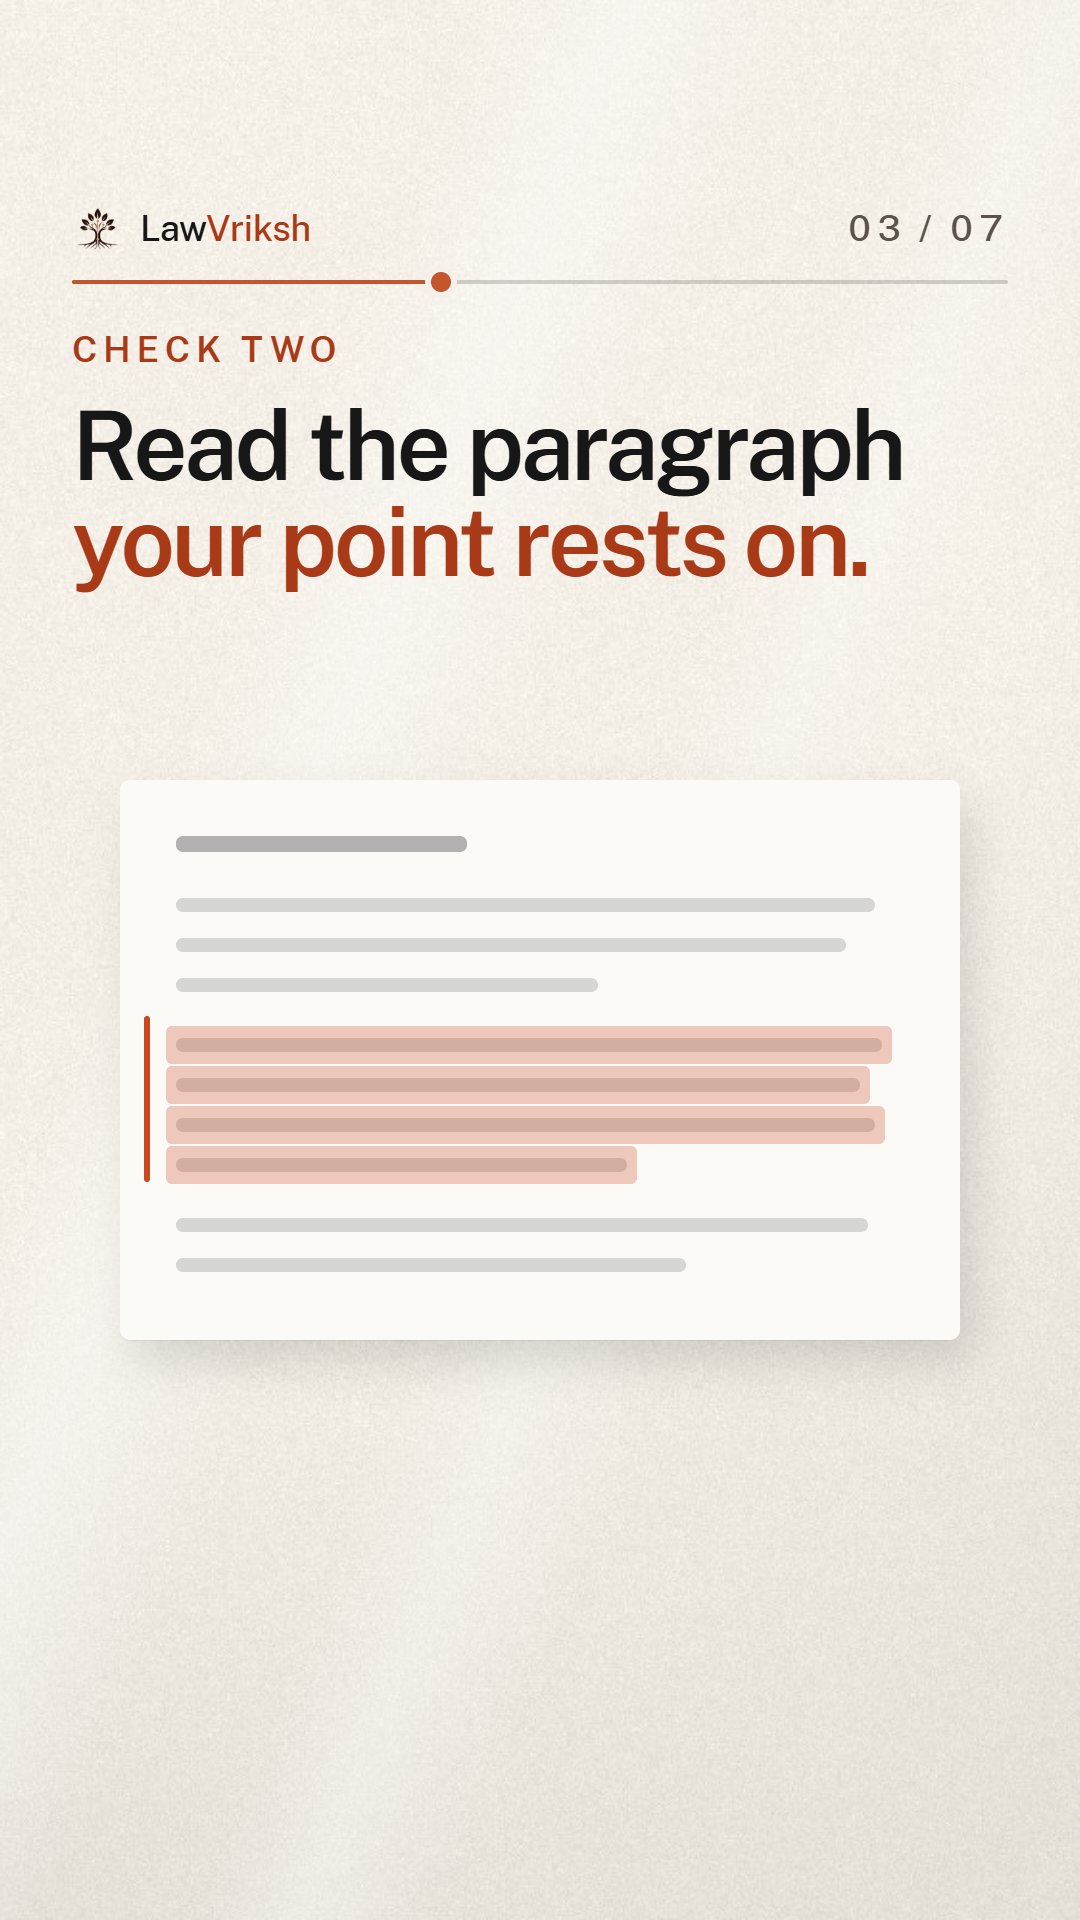
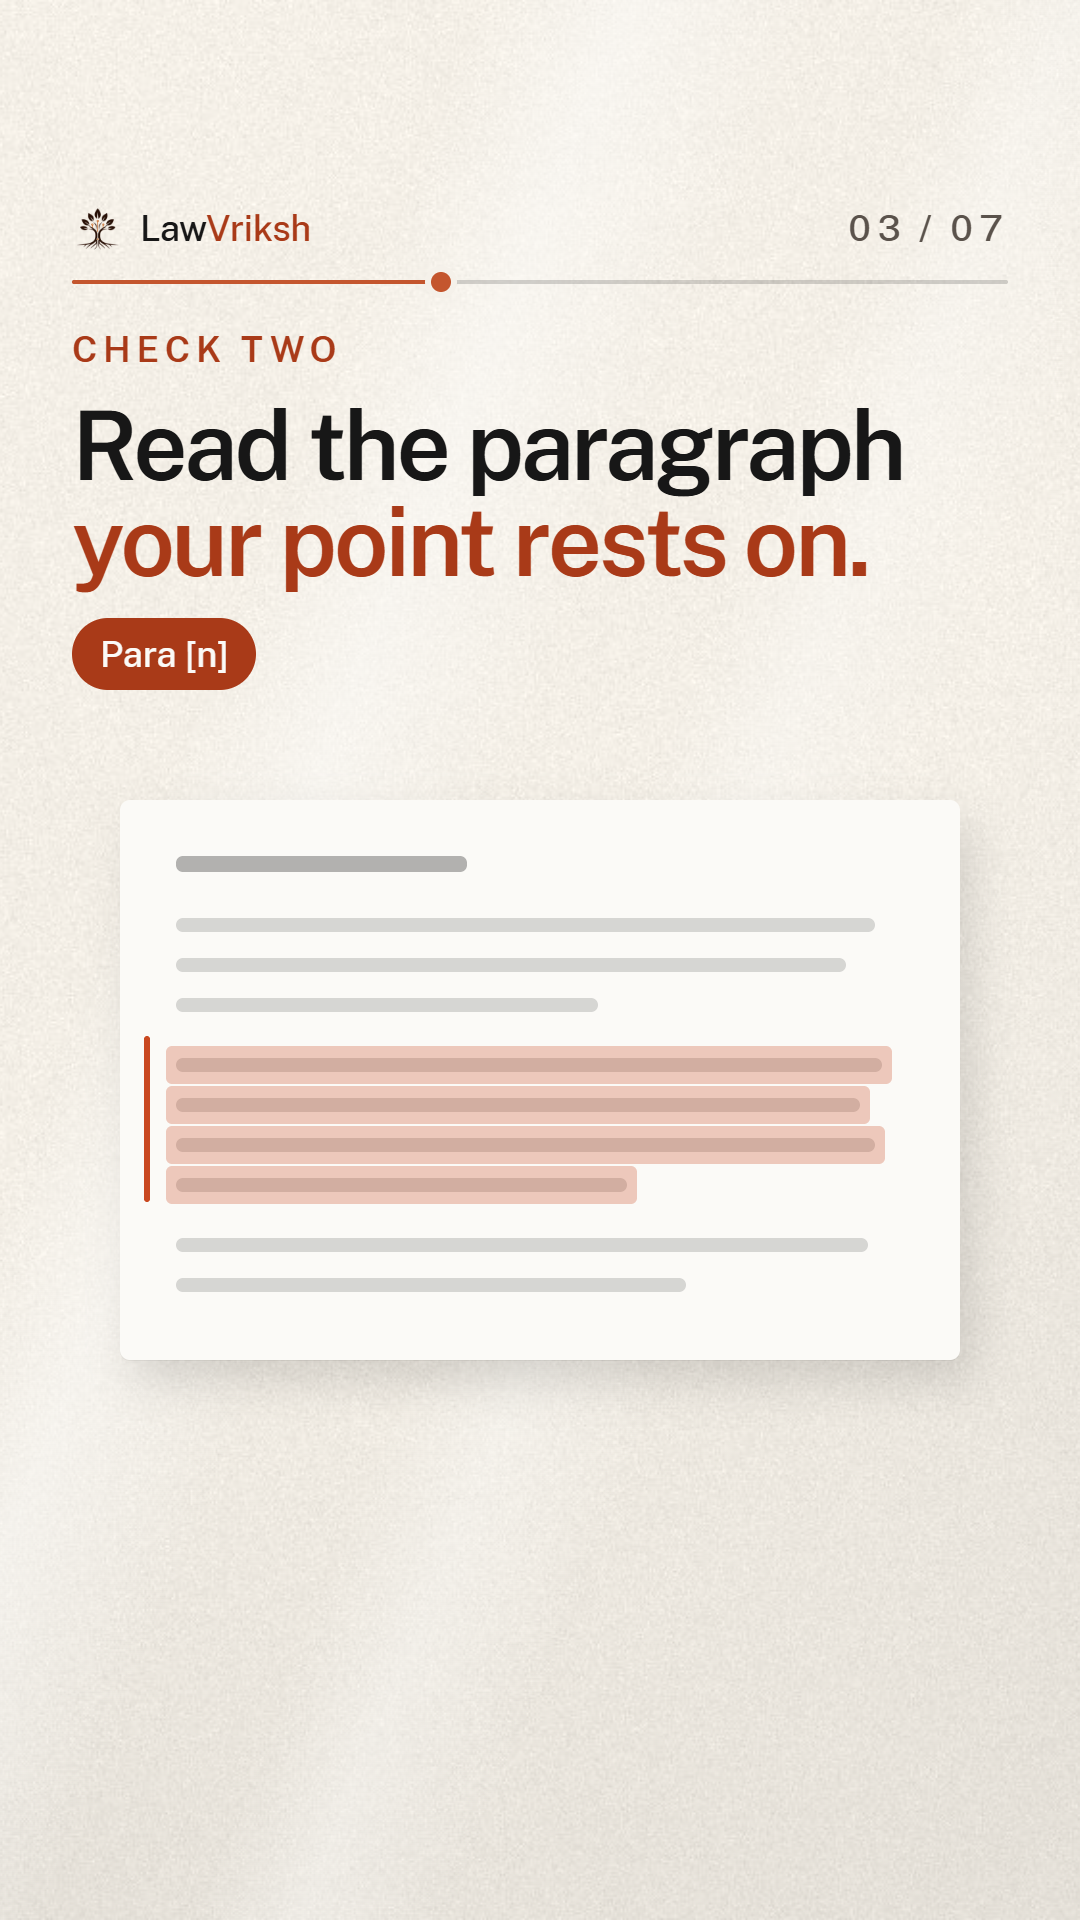
fix(lawvriksh-system): make five templates render every slot in their schema
A slot audit (fill every schema slot with a marker, require it to be visible,
require no example text left after the fill) found five failing templates:

- carousel/advocate-cover: render the declared body_html
- reel/strike-list: struck is now a real list slot (struck items cloned from a
  template; the kept line is separate)
- reel/step: steps now rebuilds the step track (and step moves the current mark)
- reel/big-number: a filled number is no longer overwritten by the cached example
- reel/document-highlight: the unrendered integer slot lines is replaced by a
  pinpoint text slot (a chip above the page)

Generators (tools/build-carousel.mjs, tools/build-reel.mjs) fixed and the
templates, schemas, examples, previews, README and manifest regenerated. All 46
existing carousel, static and reel templates now pass the audit, and the five
changed templates pass the eight system checks in both themes.

Changed region(s): [[0.1222, 0.4375, 0.8861, 0.7188], [0.0611, 0.3125, 0.2444, 0.375]]

diff --git a/lawvriksh-system/reel/document-highlight.html b/lawvriksh-system/reel/document-highlight.html
@@ -22,8 +22,10 @@
   <p class="kicker" data-slot="kicker">Check two</p>
   <div class="gap-s"></div>
   <h1 class="statement l" data-slot-html="title_html">Read the paragraph <b>your point rests on.</b></h1>
+  <div class="gap-s"></div>
+  <span class="pill is-accent pin" data-slot="pinpoint" style="align-self:flex-start">Para [n]</span>
 </section>
-<div class="scene-doc" data-deco aria-hidden="true" style="left:120px;top:780px;width:840px;height:560px">
+<div class="scene-doc" data-deco aria-hidden="true" style="left:120px;top:800px;width:840px;height:560px">
   <div class="ln h" style="width:40%"></div><div class="gap"></div>
   <div class="ln" style="width:96%"></div><div class="ln" style="width:92%"></div><div class="ln" style="width:58%"></div><div class="gap"></div>
   <div class="ln hl" style="width:97%"></div><div class="ln hl" style="width:94%"></div><div class="ln hl" style="width:96%"></div><div class="ln hl" style="width:62%"></div><div class="gap"></div>
@@ -34,7 +36,7 @@
 <script>
 (function(){
   var root = document.querySelector('.lv'), $ = function(s){ return root.querySelector(s); }, $$ = function(s){ return [].slice.call(root.querySelectorAll(s)); };
-  var D = {"theme":"paper","caption_style":"ink-band","kicker":"Check two","title_html":"Read the paragraph <b>your point rests on.</b>","lines":4,"scene_index":3,"scene_total":7,"captions":[{"w":"Read","s":0.3,"e":0.61},{"w":"the","s":0.64,"e":0.95},{"w":"paragraph","s":0.98,"e":1.29},{"w":"your","s":1.32,"e":1.63},{"w":"point","s":1.66,"e":1.97},{"w":"rests","s":2,"e":2.31},{"w":"on.","s":2.34,"e":2.65}]};
+  var D = {"theme":"paper","caption_style":"ink-band","kicker":"Check two","title_html":"Read the paragraph <b>your point rests on.</b>","pinpoint":"Para [n]","scene_index":3,"scene_total":7,"captions":[{"w":"Read","s":0.3,"e":0.61},{"w":"the","s":0.64,"e":0.95},{"w":"paragraph","s":0.98,"e":1.29},{"w":"your","s":1.32,"e":1.63},{"w":"point","s":1.66,"e":1.97},{"w":"rests","s":2,"e":2.31},{"w":"on.","s":2.34,"e":2.65}]};
   var CAP = D.captions || [], IDX = D.scene_index || 1, TOT = D.scene_total || 1;
   window.__lvAfterFill = function(d){
     if (d.captions) CAP = d.captions;
@@ -46,7 +48,7 @@
     window.__lastT = t;
     LV.progress(root, t, 5, IDX, TOT);
     LV.captions($('[data-cap]'), CAP, t);
-    LV.reveal($('.kicker'), t, 0.1, 0.5, 16); LV.reveal($('.statement'), t, 0.2, 0.6, 24);
+    LV.reveal($('.kicker'), t, 0.1, 0.5, 16); LV.reveal($('.statement'), t, 0.2, 0.6, 24); LV.reveal($('.pin'), t, 0.5, 0.5, 12);
     var d = $('.scene-doc'), p = LV.ease.outQuint(LV.prog(t, 0.4, 0.7)); d.style.opacity = p.toFixed(3); d.style.transform = 'translateY(' + ((1 - p) * 120).toFixed(2) + 'px)';
     $$('.ln.hl').forEach(function(l, i){ l.style.setProperty('--hl', LV.ease.inOut(LV.prog(t, 1.3 + i * 0.35, 0.4)).toFixed(4)); });
     $('.mm').style.transform = 'scaleY(' + LV.ease.out(LV.prog(t, 2.6, 0.4)).toFixed(4) + ')';

diff --git a/lawvriksh-system/reel/strike-list.html b/lawvriksh-system/reel/strike-list.html
@@ -23,12 +23,14 @@
   <div class="gap-s"></div>
   <h1 class="statement l" data-slot-html="title_html">What you <b>cannot cite.</b></h1>
   <div class="push"></div>
-  <ul class="slist">
-    <li class="is-struck"><span class="dot" aria-hidden="true"></span><span class="strike">A headnote<span class="bar" aria-hidden="true"></span></span></li>
-    <li class="is-struck"><span class="dot" aria-hidden="true"></span><span class="strike">A forwarded summary<span class="bar" aria-hidden="true"></span></span></li>
-    <li class="is-struck"><span class="dot" aria-hidden="true"></span><span class="strike">An AI answer<span class="bar" aria-hidden="true"></span></span></li>
-    <li class="is-keep"><span class="dot" aria-hidden="true"></span><span data-slot="kept">The judgment itself</span></li>
-  </ul>
+  <div style="display:flex;flex-direction:column;gap:30px">
+    <ul class="slist" data-slot-list="struck"><template><li class="is-struck"><span class="dot" aria-hidden="true"></span><span class="strike"><span data-field="text"></span><span class="bar" aria-hidden="true"></span></span></li></template>
+    <li class="is-struck"><span class="dot" aria-hidden="true"></span><span class="strike"><span data-field="text">A headnote</span><span class="bar" aria-hidden="true"></span></span></li>
+    <li class="is-struck"><span class="dot" aria-hidden="true"></span><span class="strike"><span data-field="text">A forwarded summary</span><span class="bar" aria-hidden="true"></span></span></li>
+    <li class="is-struck"><span class="dot" aria-hidden="true"></span><span class="strike"><span data-field="text">An AI answer</span><span class="bar" aria-hidden="true"></span></span></li>
+    </ul>
+    <ul class="slist"><li class="is-keep"><span class="dot" aria-hidden="true"></span><span data-slot="kept">The judgment itself</span></li></ul>
+  </div>
   <div class="push"></div>
 </section><div class="cap ink-band" data-cap aria-live="off"><div class="cap-line"></div></div>
 </main>

diff --git a/lawvriksh-system/reel/step.html b/lawvriksh-system/reel/step.html
@@ -41,6 +41,17 @@
     if (d.captions) CAP = d.captions;
     if (d.scene_index) IDX = d.scene_index; if (d.scene_total) TOT = d.scene_total;
     if (d.caption_style) { var c = $('[data-cap]'); c.className = 'cap ' + d.caption_style; }
+    if ('step' in d || 'steps' in d) {
+      var tr = $('.step-track'), cnt = +d.steps || tr.children.length, cur = +(d.step || $('[data-slot="step"]').textContent) || 1;
+      tr.innerHTML = '';
+      for (var i = 1; i <= cnt; i++) {
+        var li = document.createElement('li');
+        li.setAttribute('style', 'font-size:36px;font-weight:600;letter-spacing:.08em;padding-bottom:12px;position:relative;color:' + (i === cur ? 'var(--accent)' : 'var(--fg-muted)'));
+        li.textContent = String(i).padStart(2, '0');
+        if (i === cur) { var c2 = document.createElement('span'); c2.className = 'cur'; c2.setAttribute('aria-hidden', 'true'); c2.setAttribute('style', 'position:absolute;left:0;right:0;bottom:0;height:4px;border-radius:2px;background:var(--thread);transform-origin:0 50%'); li.appendChild(c2); }
+        tr.appendChild(li);
+      }
+    }
     if (window.__renderAt) window.__renderAt(window.__lastT || 0);
   };
   LV.scene({duration: 4.5, hold: 3.4, render: function(t){

diff --git a/lawvriksh-system/reel/big-number.html b/lawvriksh-system/reel/big-number.html
@@ -37,6 +37,7 @@
     if (d.captions) CAP = d.captions;
     if (d.scene_index) IDX = d.scene_index; if (d.scene_total) TOT = d.scene_total;
     if (d.caption_style) { var c = $('[data-cap]'); c.className = 'cap ' + d.caption_style; }
+    if ('number' in d) { $('.bigword').__v = null; }
     if (window.__renderAt) window.__renderAt(window.__lastT || 0);
   };
   LV.scene({duration: 4, hold: 3, render: function(t){

diff --git a/lawvriksh-system/carousel/advocate-cover.html b/lawvriksh-system/carousel/advocate-cover.html
@@ -21,6 +21,8 @@
   <h1 class="statement m" data-slot="name">[Advocate name]</h1>
   <div class="gap-s"></div>
   <p class="era" data-slot="era">[Year]–[Year] · [Bar / city]</p>
+  <div class="gap-s"></div>
+  <p class="support" data-slot-html="body_html" data-optional>One habit of practice we still use, and where it came from.</p>
 </section>
 
 <div class="thread" aria-hidden="true"></div>

diff --git a/lawvriksh-system/README.md b/lawvriksh-system/README.md
@@ -96,7 +96,7 @@ Text zone y 300–1330; caption band y 1372–1520; progress thread + counter y 
 |---|---|---|---|
 | [Hook](reel/hook.html) | 4 s | Kicker fades up (0.1 s). Statement rises word by word (0.35 s, 0.09 s stagger). Case files settle up from below (1.0–1.8 s). Supporting line fades up (1.7 s). | `kicker`, `title_html`, `body_html`, `motif`, `scene_index`, `scene_total`, `caption_style`, `captions` |
 | [Kicker, title, supporting line](reel/title.html) | 4 s | Kicker (0.1 s), statement word by word (0.3 s), a short thread draws under it (1.1–1.6 s), supporting line (1.4 s). | `kicker`, `title_html`, `body_html`, `scene_index`, `scene_total`, `caption_style`, `captions` |
-| [Document highlight](reel/document-highlight.html) | 5 s | Statement fades up (0.1 s). The page slides up (0.4–1.1 s). The highlight sweeps line by line across one paragraph (1.3–2.7 s); a clay margin mark grows beside it (2.6–3.0 s). | `kicker`, `title_html`, `lines`, `scene_index`, `scene_total`, `caption_style`, `captions` |
+| [Document highlight](reel/document-highlight.html) | 5 s | Statement fades up (0.1 s). The page slides up (0.4–1.1 s). The highlight sweeps line by line across one paragraph (1.3–2.7 s); a clay margin mark grows beside it (2.6–3.0 s). | `kicker`, `title_html`, `pinpoint`, `scene_index`, `scene_total`, `caption_style`, `captions` |
 | [Strike-out list](reel/strike-list.html) | 5 s | Title fades up. Items appear (0.5 s, 0.15 s stagger). A clay strike draws through each struck item in turn (1.3, 1.8, 2.3 s) and it dims. The kept item gains a thread dot and turns full strength (2.9 s). | `kicker`, `title_html`, `struck`, `kept`, `scene_index`, `scene_total`, `caption_style`, `captions` |
 | [Two-card comparison with link line](reel/compare-link.html) | 5 s | Title fades up. The first card rises (0.5 s). A clay link line draws down between the cards with a node at each end, no arrowhead (1.2–1.8 s). The second card rises (1.7 s). | `kicker`, `title_html`, `a_label`, `a_text`, `b_label`, `b_text`, `scene_index`, `scene_total`, `caption_style`, `captions` |
 | [Check rows, one by one](reel/check-rows.html) | 5 s | Title fades up. Each row rises 0.55 s after the last (from 1.0 s); its tick circle scales in 0.15 s after the row. | `kicker`, `title_html`, `rows`, `scene_index`, `scene_total`, `caption_style`, `captions` |
